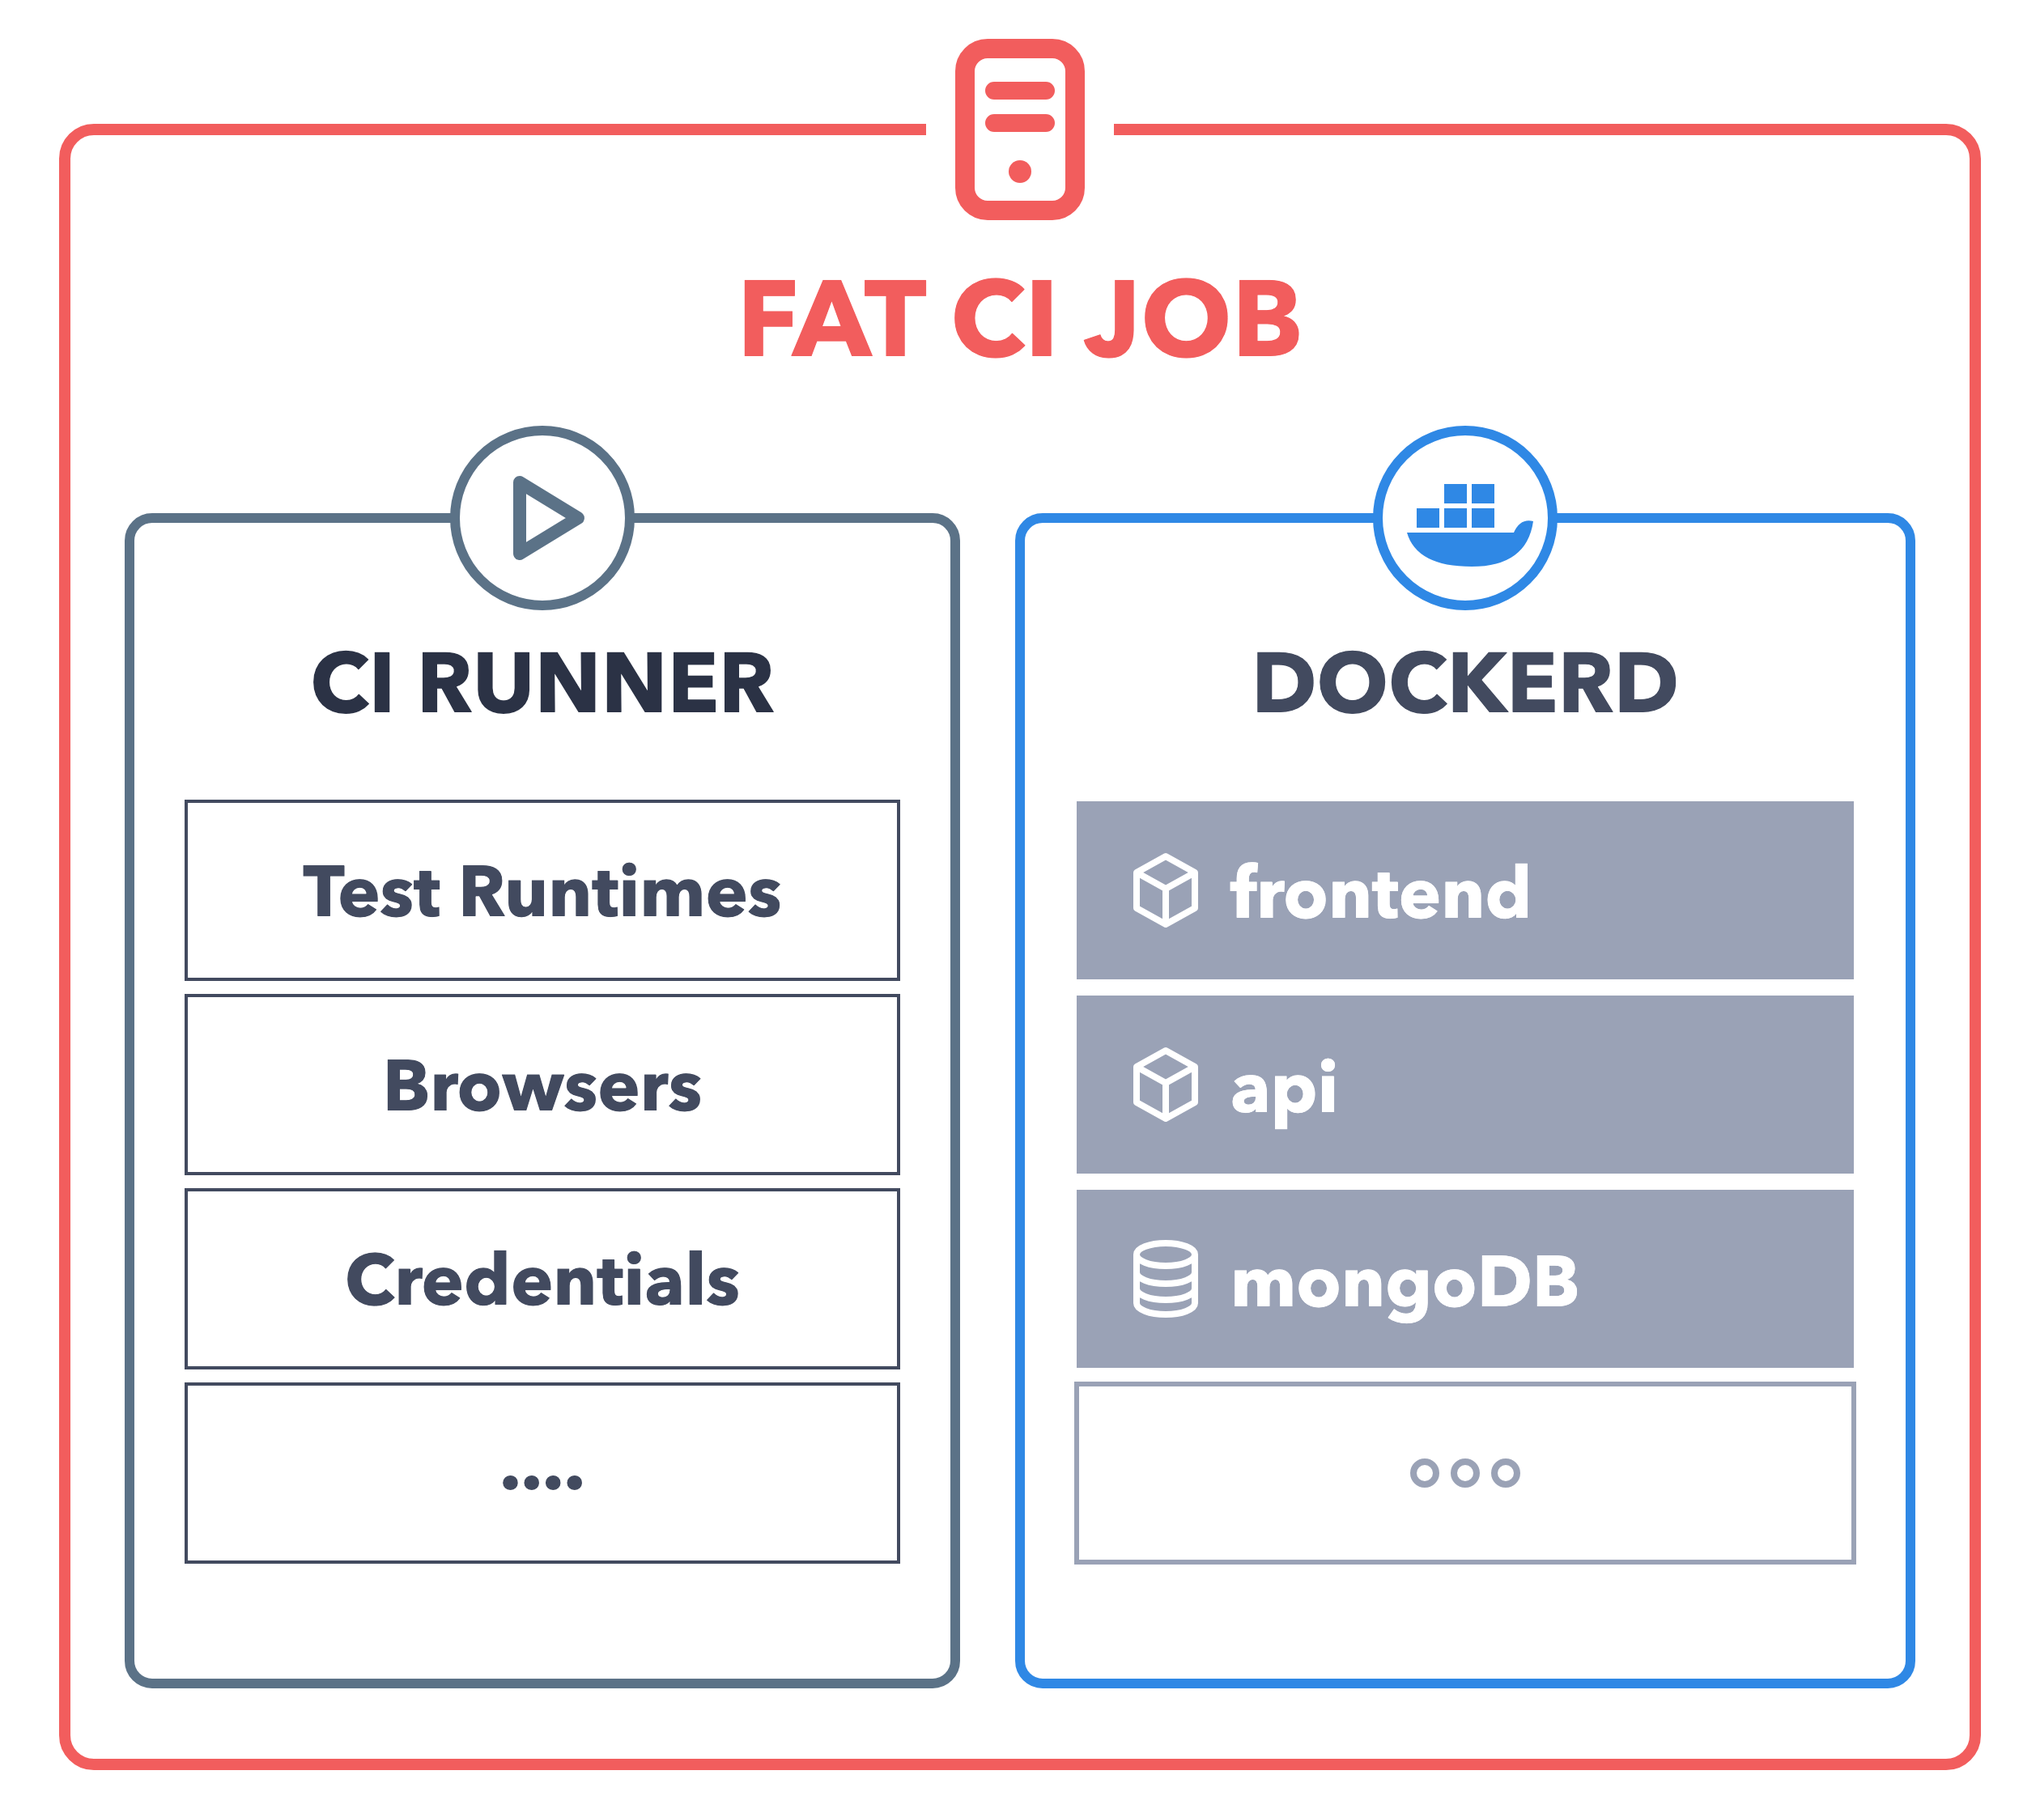
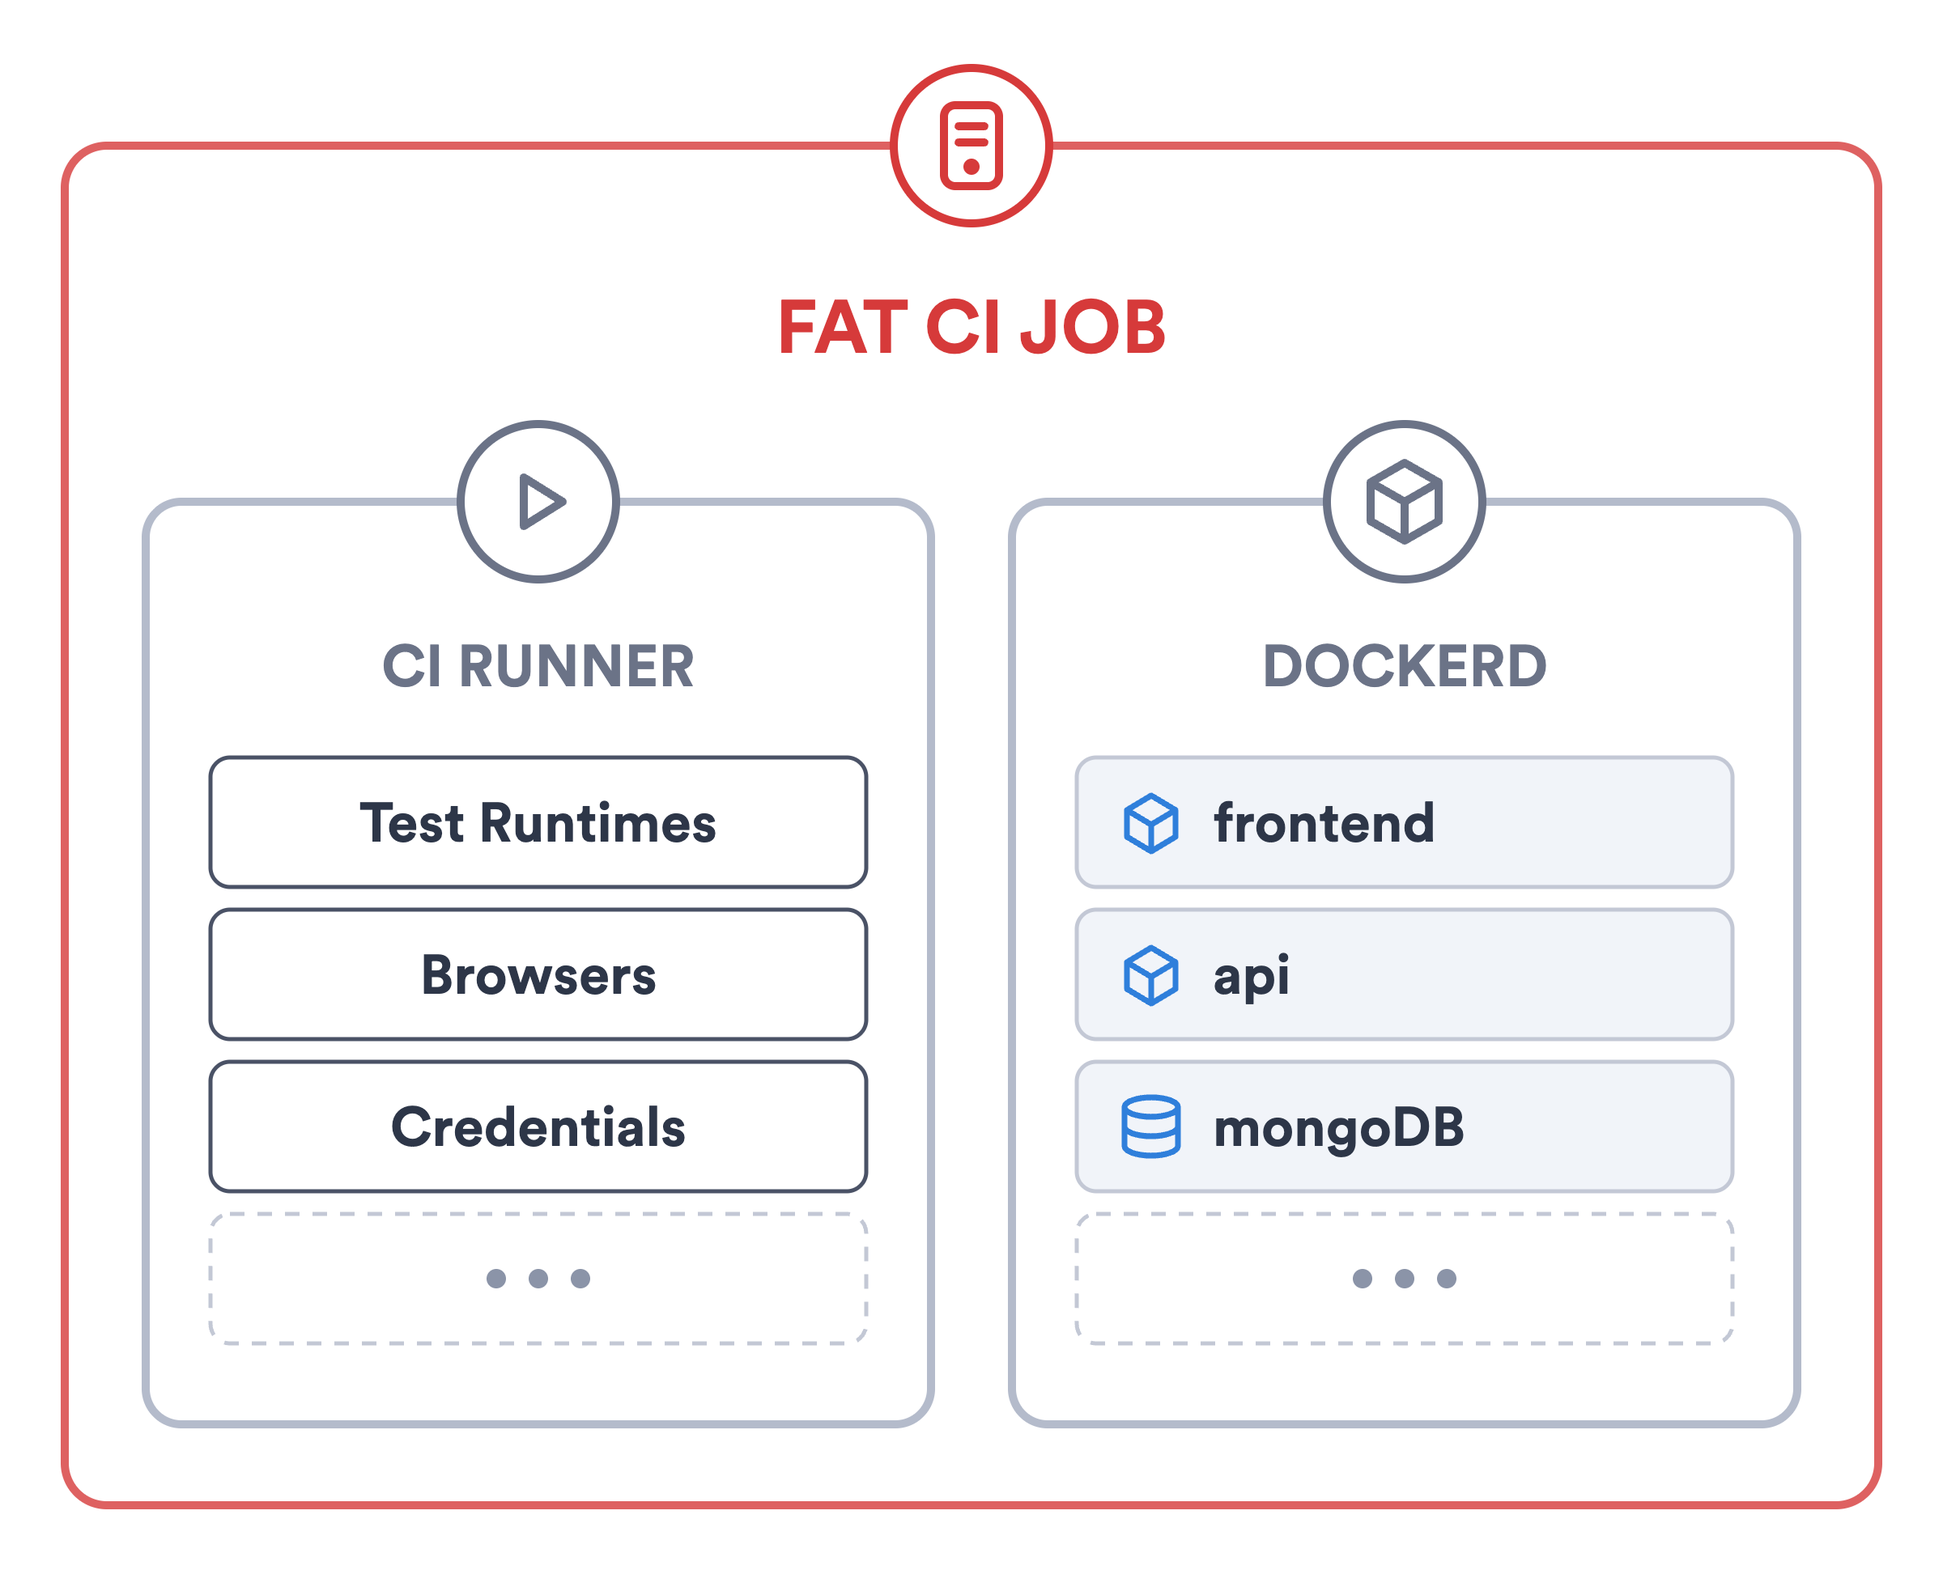
Redraw the diagrams of the Why Preview Environments page (#1429)
* Redraw the diagrams of the Why Preview Environments page

Redraw the five diagrams in the visual style of the okteto.com landings.
The content of every image is unchanged, so the alt texts still apply.
The files keep their names. classic-software-development.png and
okteto-for-testing.png are also used by the Testing page of versions
1.39 to 1.49, which now show the redrawn images.

* Drop the Okteto logo from the Okteto CLI box of the light CI job diagram

* Show the Why Preview Environments diagrams without the image border

The diagrams draw their own boxes, so the frame the Image component adds is
redundant. Also applied to the 1.50 copy of the page, which already shows
the redrawn images.

* Serve stacked versions of the wide Why Preview Environments diagrams on phones

On a phone the three-column diagrams render at about 330px wide, with
labels around 5px. The Image component gets a mobileSrc prop that serves an
alternative image below 600px through <picture>, and four diagrams get a
stacked version built from crops of the desktop images.

* AGENTS.md: check new images and tables at phone width

---------

Changed region(s): [[0.0312, 0.2165, 0.9688, 0.9897], [0.0312, 0.0, 0.9688, 0.2474]]

diff --git a/src/theme/Image/index.js b/src/theme/Image/index.js
@@ -17,15 +17,28 @@ function Image(props) {
     src: source,
     loading: loading || "lazy",
     center: undefined,
-    borderless: undefined
+    borderless: undefined,
+    mobileSrc: undefined
   };
 
-  return (
+  const image = (
     <img {...imageProps} className={classnames(styles.Image, {
         [styles.ImageCenter]: props.center,
         [styles.ImageBorderless]: props.borderless
       })}
     />
+  );
+
+  // mobileSrc: an alternative image (for example, a diagram stacked
+  // vertically) served on narrow screens instead of src.
+  if (!props.mobileSrc) {
+    return image;
+  }
+  return (
+    <picture>
+      <source media="(max-width: 600px)" srcSet={props.mobileSrc} />
+      {image}
+    </picture>
   );
 }
 

diff --git a/AGENTS.md b/AGENTS.md
@@ -76,6 +76,7 @@ Run through this before declaring any docs change complete:
 5. **Confirm the frontmatter `description`** is a single functional sentence, with no marketing copy.
 6. **Run `yarn build`** if you touched more than a single page. The build catches broken anchors and version mismatches.
 7. **For new feature docs:** confirm you opened with the subject + what it does, and that section headings are noun phrases.
+8. **Check every image or table you added at phone width** (390px, an iPhone). Text inside images must stay readable (about 11px or more on screen): give wide diagrams a stacked version with the `mobileSrc` prop of `Image`. Tables must fit the screen without scrolling sideways. Headless Chrome can't make its window narrower than about 500px, so emulate the device (Chrome DevTools, or `Emulation.setDeviceMetricsOverride` over the DevTools protocol) instead of resizing the window.
 
 ## Special workflows
 
